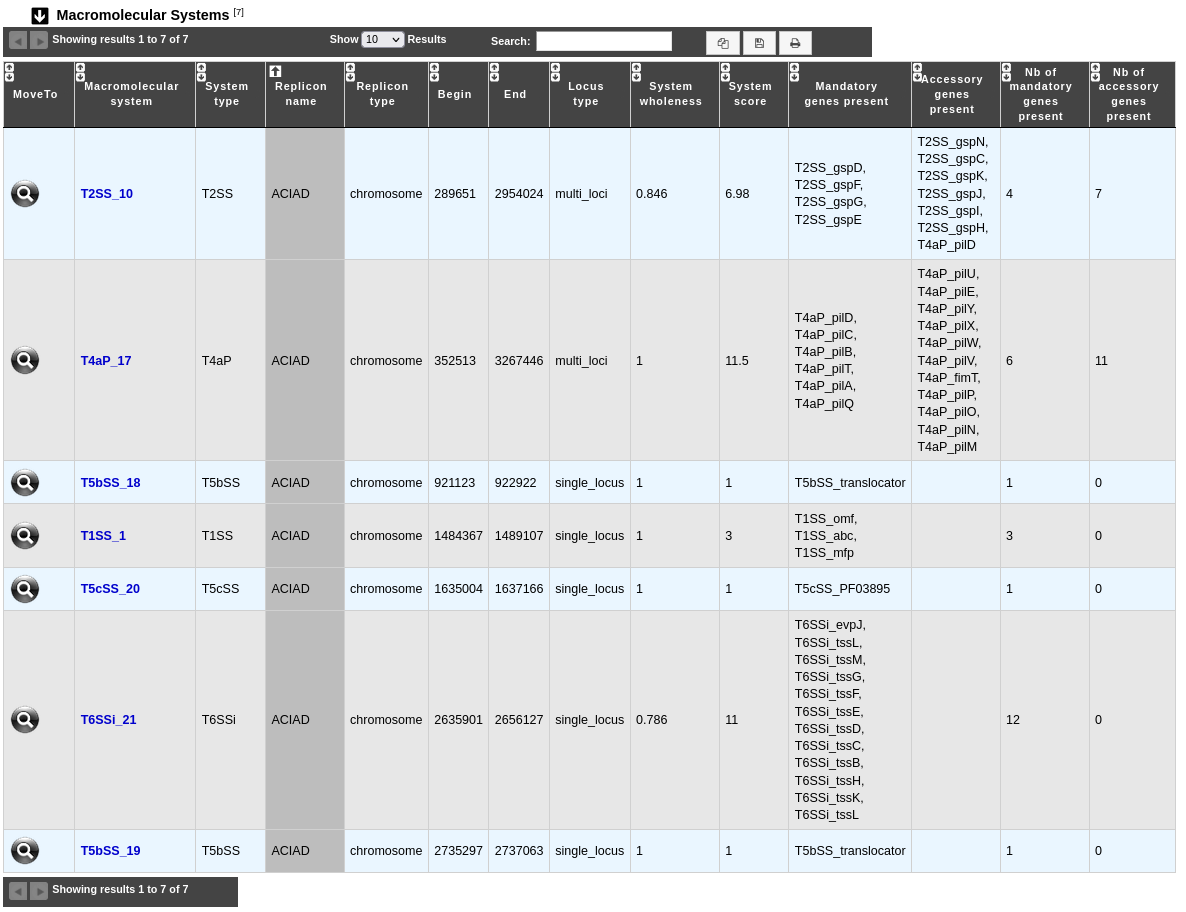
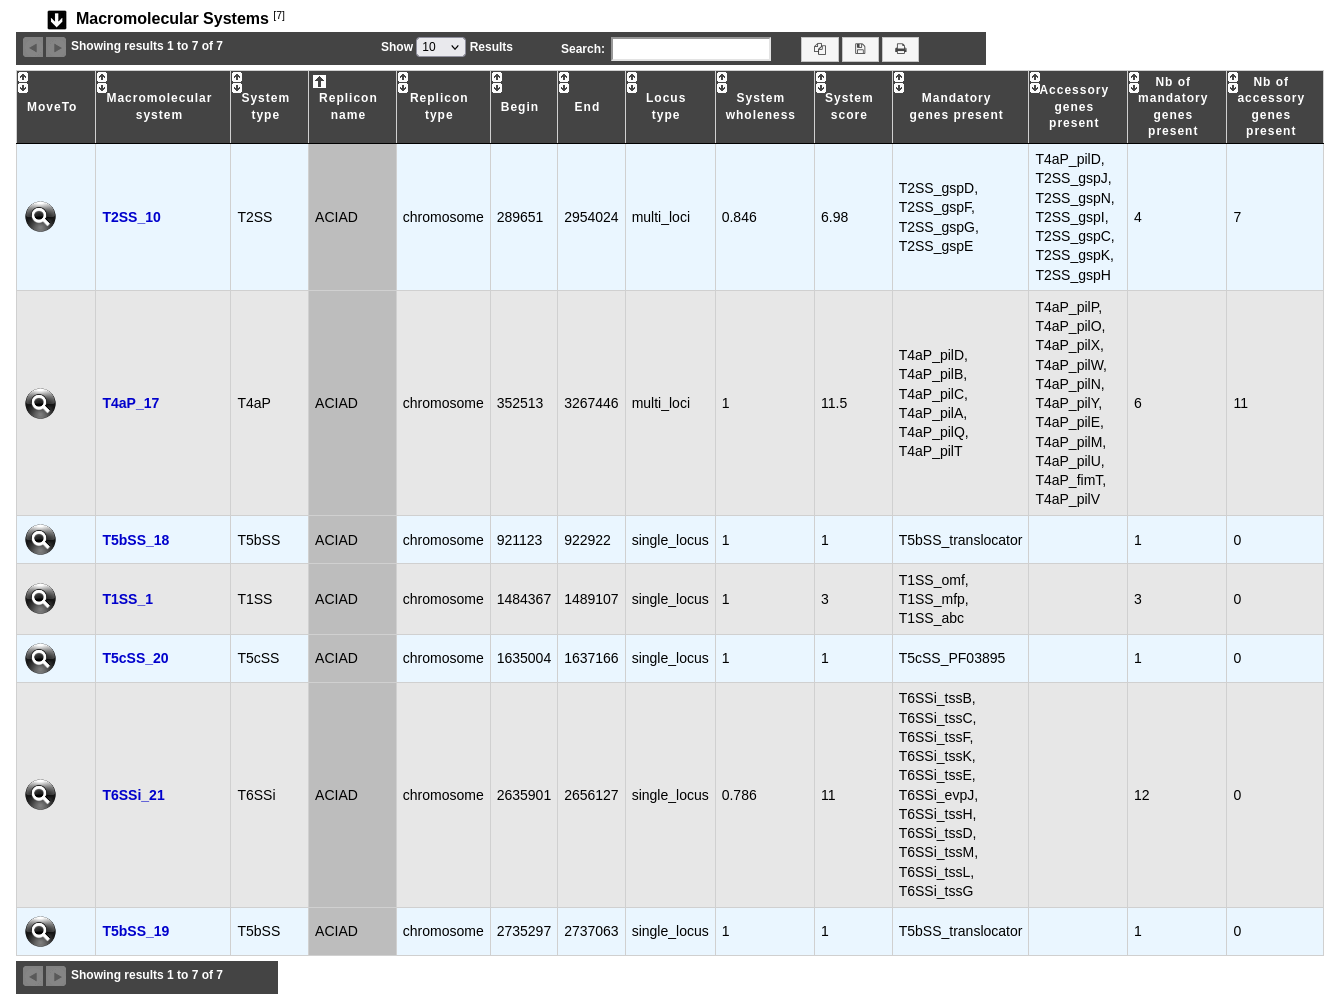
[#10482] Details about list of mandatory and accessory genes present.

diff --git a/docs/content/mage/info.rst b/docs/content/mage/info.rst
@@ -1375,7 +1375,7 @@ Models are used to search for molecular systems in complete genomes or in unstru
 The components of the systems are searched by sequence similarity using Hidden Markov model (HMM) protein profiles.
 The assignment of hits to a given system is decided based on compliance with the content and organization of the system model.
 
-Know  more about `MacSyFinder <https://macsyfinder.readthedocs.io/en/latest/>`_
+Know  more about `MacSyFinder <https://macsyfinder.readthedocs.io/en/latest/>`_.
 
 **Reference:**
 
@@ -1389,9 +1389,9 @@ The **MacSyFinder** dataset appears if the genomic object corresponds to a macro
 .. image:: img/macsyfinder2_datasettab.png
 
 * **Macromolecular system**: Label of the system predicted by MacSyFinder. Click on it open the :ref:`MacSyFinder System visualization window <macromolecular-system-vizualization>` page, which allows to access to a detailled description of the selected macromolecular system.
-* **Mandatory genes present**: Names of mandatory genes composing the system.
+* **Mandatory genes present**: Names of distinct mandatory genes composing the system.
 * **Begin** and **End**: Location of the system on the sequence.
-* **Gene status**: Status of the gene in the system (mandatory, accessory, neutral)
+* **Gene status**: Status of the gene in the system (mandatory, accessory, neutral).
 * **Hit label**: Name of the MacSyFinder HMM profile which matchs with the sequence.
 * **Eval**: Evalue of the match.
 * **Query coverage**: Coverage of the match on the sequence.
@@ -1458,7 +1458,7 @@ The **DefenseFinder** dataset appears if the genomic object corresponds to a def
 
 .. image:: img/defensefinder1_datasettab.png
 
-* **System name**: Name of the defense system to which belongs the gene, clicking on this opens the :ref:`defense system visualization interface <how-to-explore-a-defense-system>`
+* **System name**: Name of the defense system to which belongs the gene, clicking on this opens the :ref:`defense system visualization interface <how-to-explore-a-defense-system>`.
 * **Protein name**: Name of the protein detected by MacSyFinder.
 * **Status**: Status of the gene in the system, as defined by MacSyFinder (mandatory, accessory, neutral).
 * **Eval**: E-value of the match with DefenseFinder models.

diff --git a/docs/content/compgenomics/macsyfinder.rst b/docs/content/compgenomics/macsyfinder.rst
@@ -64,8 +64,8 @@ This table enumerates all macromolecular systems predicted for the selected orga
 * **Locus type**: Type of locus (single_locus, multi_loci).
 * **System wholeness**: Wholeness of the system.
 * **System score**: MacSyFinder score of the system (see `here <https://macsyfinder.readthedocs.io/en/latest/user_guide/functioning.html#c-computing-candidate-systems-scores-ordered-mode>`_ for more details about its computation).
-* **Mandatory genes present**: List of mandatory genes of the system identified in the organism.
-* **Accessory genes present**: List of accessory genes of the system identified in the organism.
+* **Mandatory genes present**: List of distinct mandatory genes of the system identified in the organism.
+* **Accessory genes present**: List of distinct accessory genes of the system identified in the organism.
 * **Nb of mandatory genes present**: Number of mandatory genes of the system identified in the organism.
 * **Nb of accessory genes present**: Number of accessory genes of the system identified in the organism.
 
